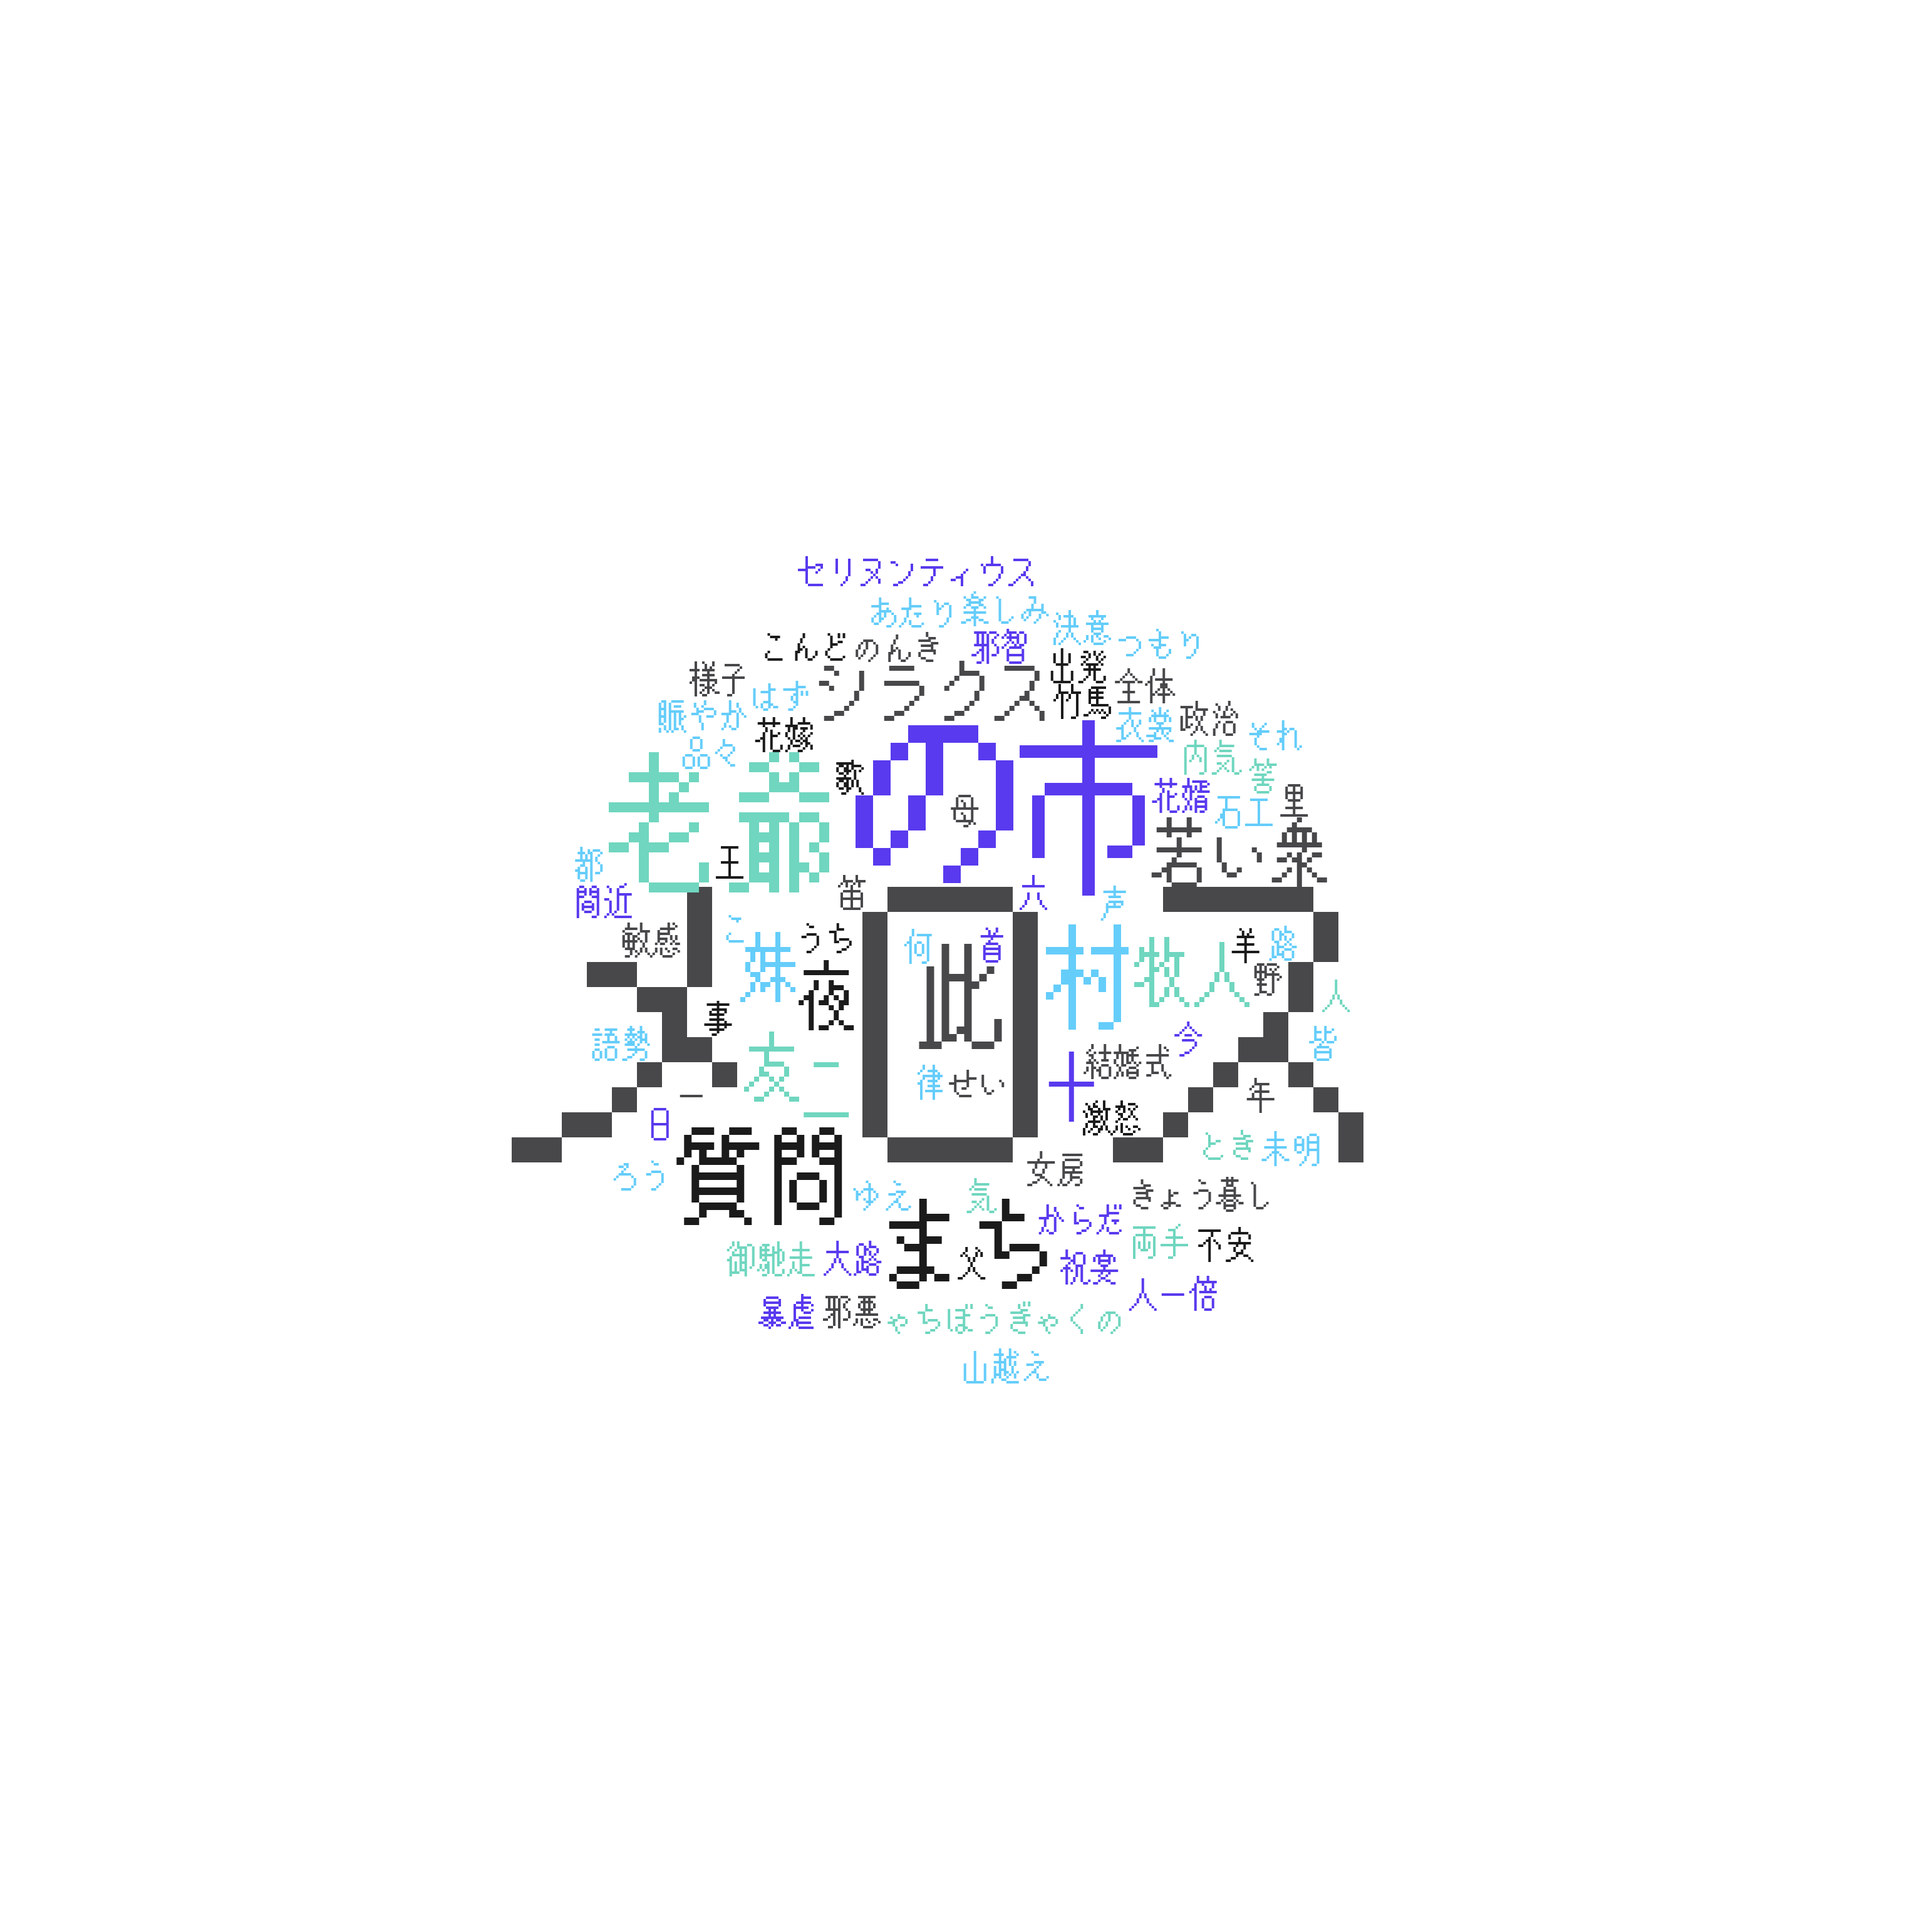
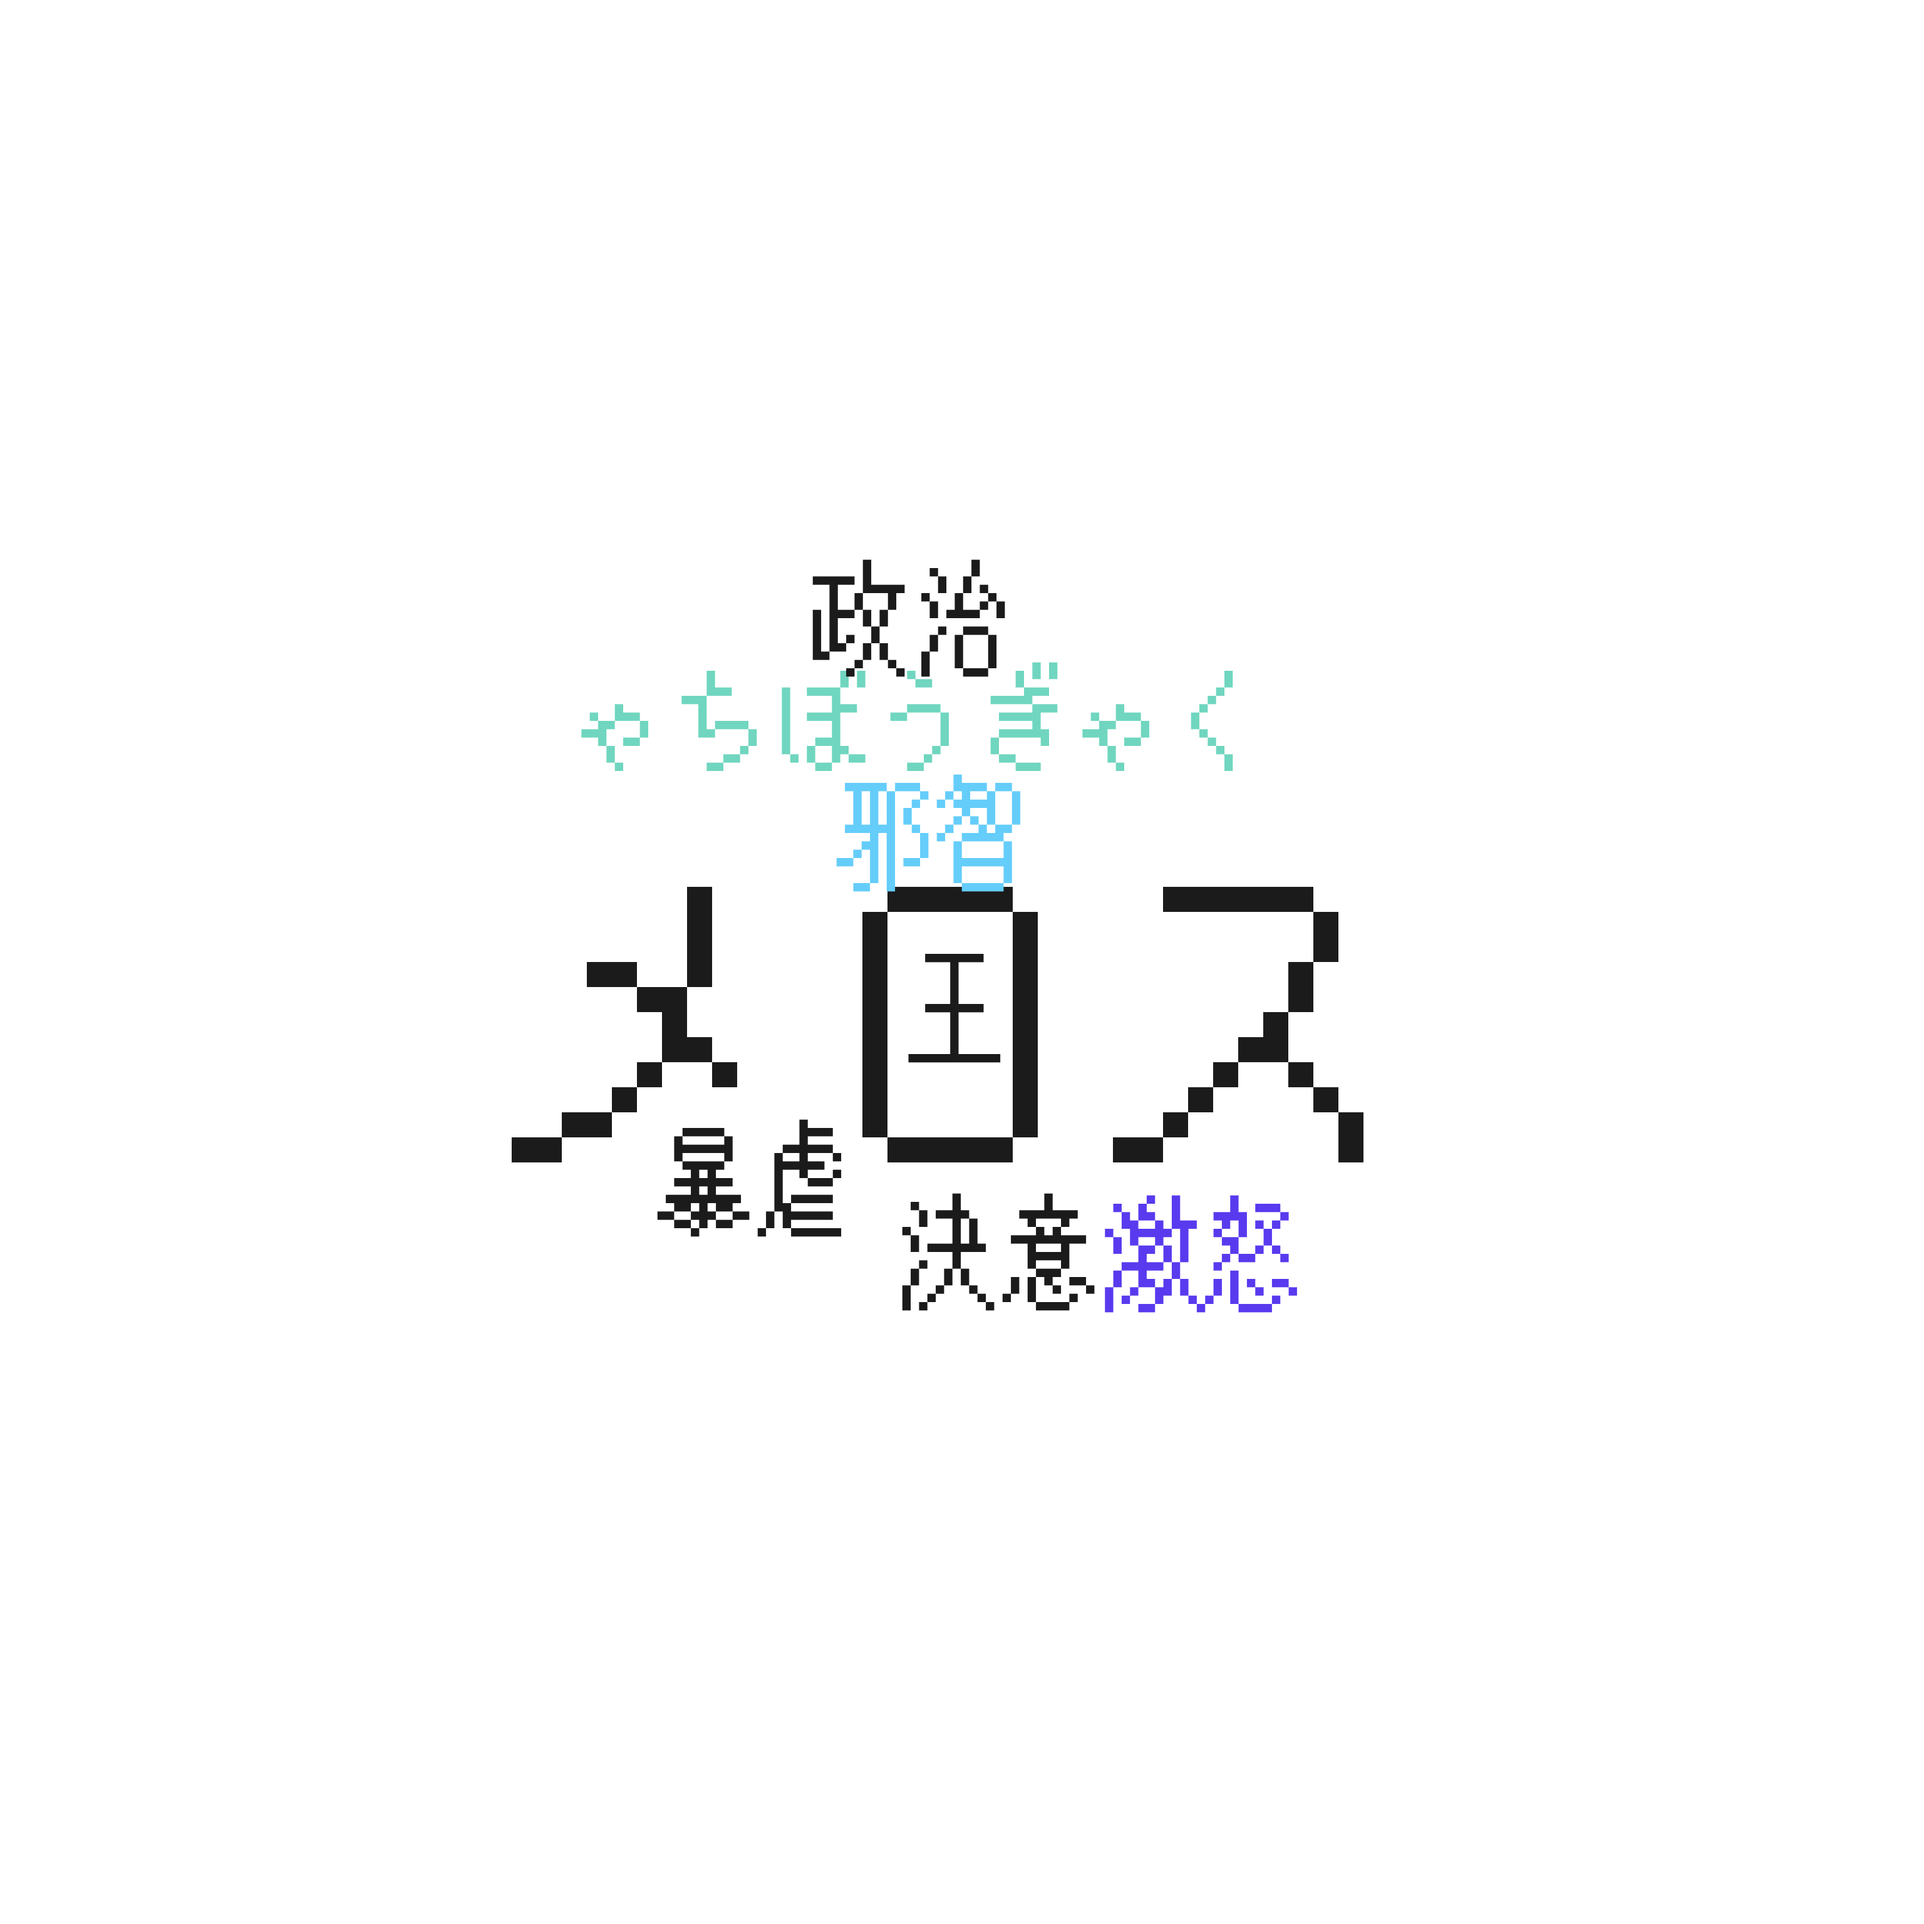
README.mdのコマンドをdocker-composeからpodmanに変更し、サンプル入力を更新

Changed region(s): [[0.25, 0.2812, 0.7188, 0.7188]]

diff --git a/README.md b/README.md
@@ -1,8 +1,8 @@
 # wordcloud
 
 ```bash
-$ docker-compose up -d
-$ docker-compose exec app go run cmd/main.go -w [input word]
+$ podman compose up -d
+$ podman compose exec app go run cmd/main.go -w [input word]
 ...
 $ ./output.png
 ```
@@ -10,7 +10,7 @@ $ ./output.png
 ### example
 
 ```
-$ docker-compose exec app go run cmd/main.go -w メロスは激怒した。必ず、かの邪智暴虐じゃちぼうぎゃくの王を除かなければならぬと決意した。メロスには政治がわからぬ。メロスは、 村の牧人である。笛を吹き、羊と遊んで暮して来た。けれども邪悪に対しては、人一倍に敏感であった。きょう未明メロスは村を出発し、野を越え山越え、十里はなれた此このシラクスの市にやって来た。メロスには父も、母も無い。女房も無い。 十六の、内気な妹と二人暮しだ。この妹は、村の或る律気な一牧人を、近々、花婿はなむことして迎える事になっていた。結婚式も間近かなのである。メロスは、それゆえ、花嫁の衣裳やら祝宴の御馳走やらを買いに、はるばる市にやって来たのだ 。先ず、その品々を買い集め、それから都の大路をぶらぶら歩いた。メロスには竹馬の友があった。セリヌンティウスである。今は此のシラクスの市で、石工をしている。その友を、これから訪ねてみるつもりなのだ。久しく逢わなかったのだから 、訪ねて行くのが楽しみである。歩いているうちにメロスは、まちの様子を怪しく思った。ひっそりしている。もう既に日も落ちて、まちの暗いのは当りまえだが、けれども、なんだか、夜のせいばかりでは無く、市全体が、やけに寂しい。のんき なメロスも、だんだん不安になって来た。路で逢った若い衆をつかまえて、何かあったのか、二年まえに此の市に来たときは、夜でも皆が歌をうたって、まちは賑やかであった筈はずだが、と質問した。若い衆は、首を振って答えなかった。しばら く歩いて老爺ろうやに逢い、こんどはもっと、語勢を強くして質問した。老爺は答えなかった。メロスは両手で老爺のからだをゆすぶって質問を重ねた。老爺は、あたりをはばかる低声で、わずか答えた。
+$ podman compose exec app go run cmd/main.go -w メロスは激怒した。必ず、かの邪智暴虐じゃちぼうぎゃくの王を除かなければならぬと決意した。メロスには政治がわからぬ。メロスは、 村の牧人である。笛を吹き、羊と遊んで暮して来た。けれども邪悪に対しては、人一倍に敏感であった。きょう未明メロスは村を出発し、野を越え山越え、十里はなれた此このシラクスの市にやって来た。メロスには父も、母も無い。女房も無い。 十六の、内気な妹と二人暮しだ。この妹は、村の或る律気な一牧人を、近々、花婿はなむことして迎える事になっていた。結婚式も間近かなのである。メロスは、それゆえ、花嫁の衣裳やら祝宴の御馳走やらを買いに、はるばる市にやって来たのだ 。先ず、その品々を買い集め、それから都の大路をぶらぶら歩いた。メロスには竹馬の友があった。セリヌンティウスである。今は此のシラクスの市で、石工をしている。その友を、これから訪ねてみるつもりなのだ。久しく逢わなかったのだから 、訪ねて行くのが楽しみである。歩いているうちにメロスは、まちの様子を怪しく思った。ひっそりしている。もう既に日も落ちて、まちの暗いのは当りまえだが、けれども、なんだか、夜のせいばかりでは無く、市全体が、やけに寂しい。のんき なメロスも、だんだん不安になって来た。路で逢った若い衆をつかまえて、何かあったのか、二年まえに此の市に来たときは、夜でも皆が歌をうたって、まちは賑やかであった筈はずだが、と質問した。若い衆は、首を振って答えなかった。しばら く歩いて老爺ろうやに逢い、こんどはもっと、語勢を強くして質問した。老爺は答えなかった。メロスは両手で老爺のからだをゆすぶって質問を重ねた。老爺は、あたりをはばかる低声で、わずか答えた。
 ```
 
 ![sample](./sample_output.png)
